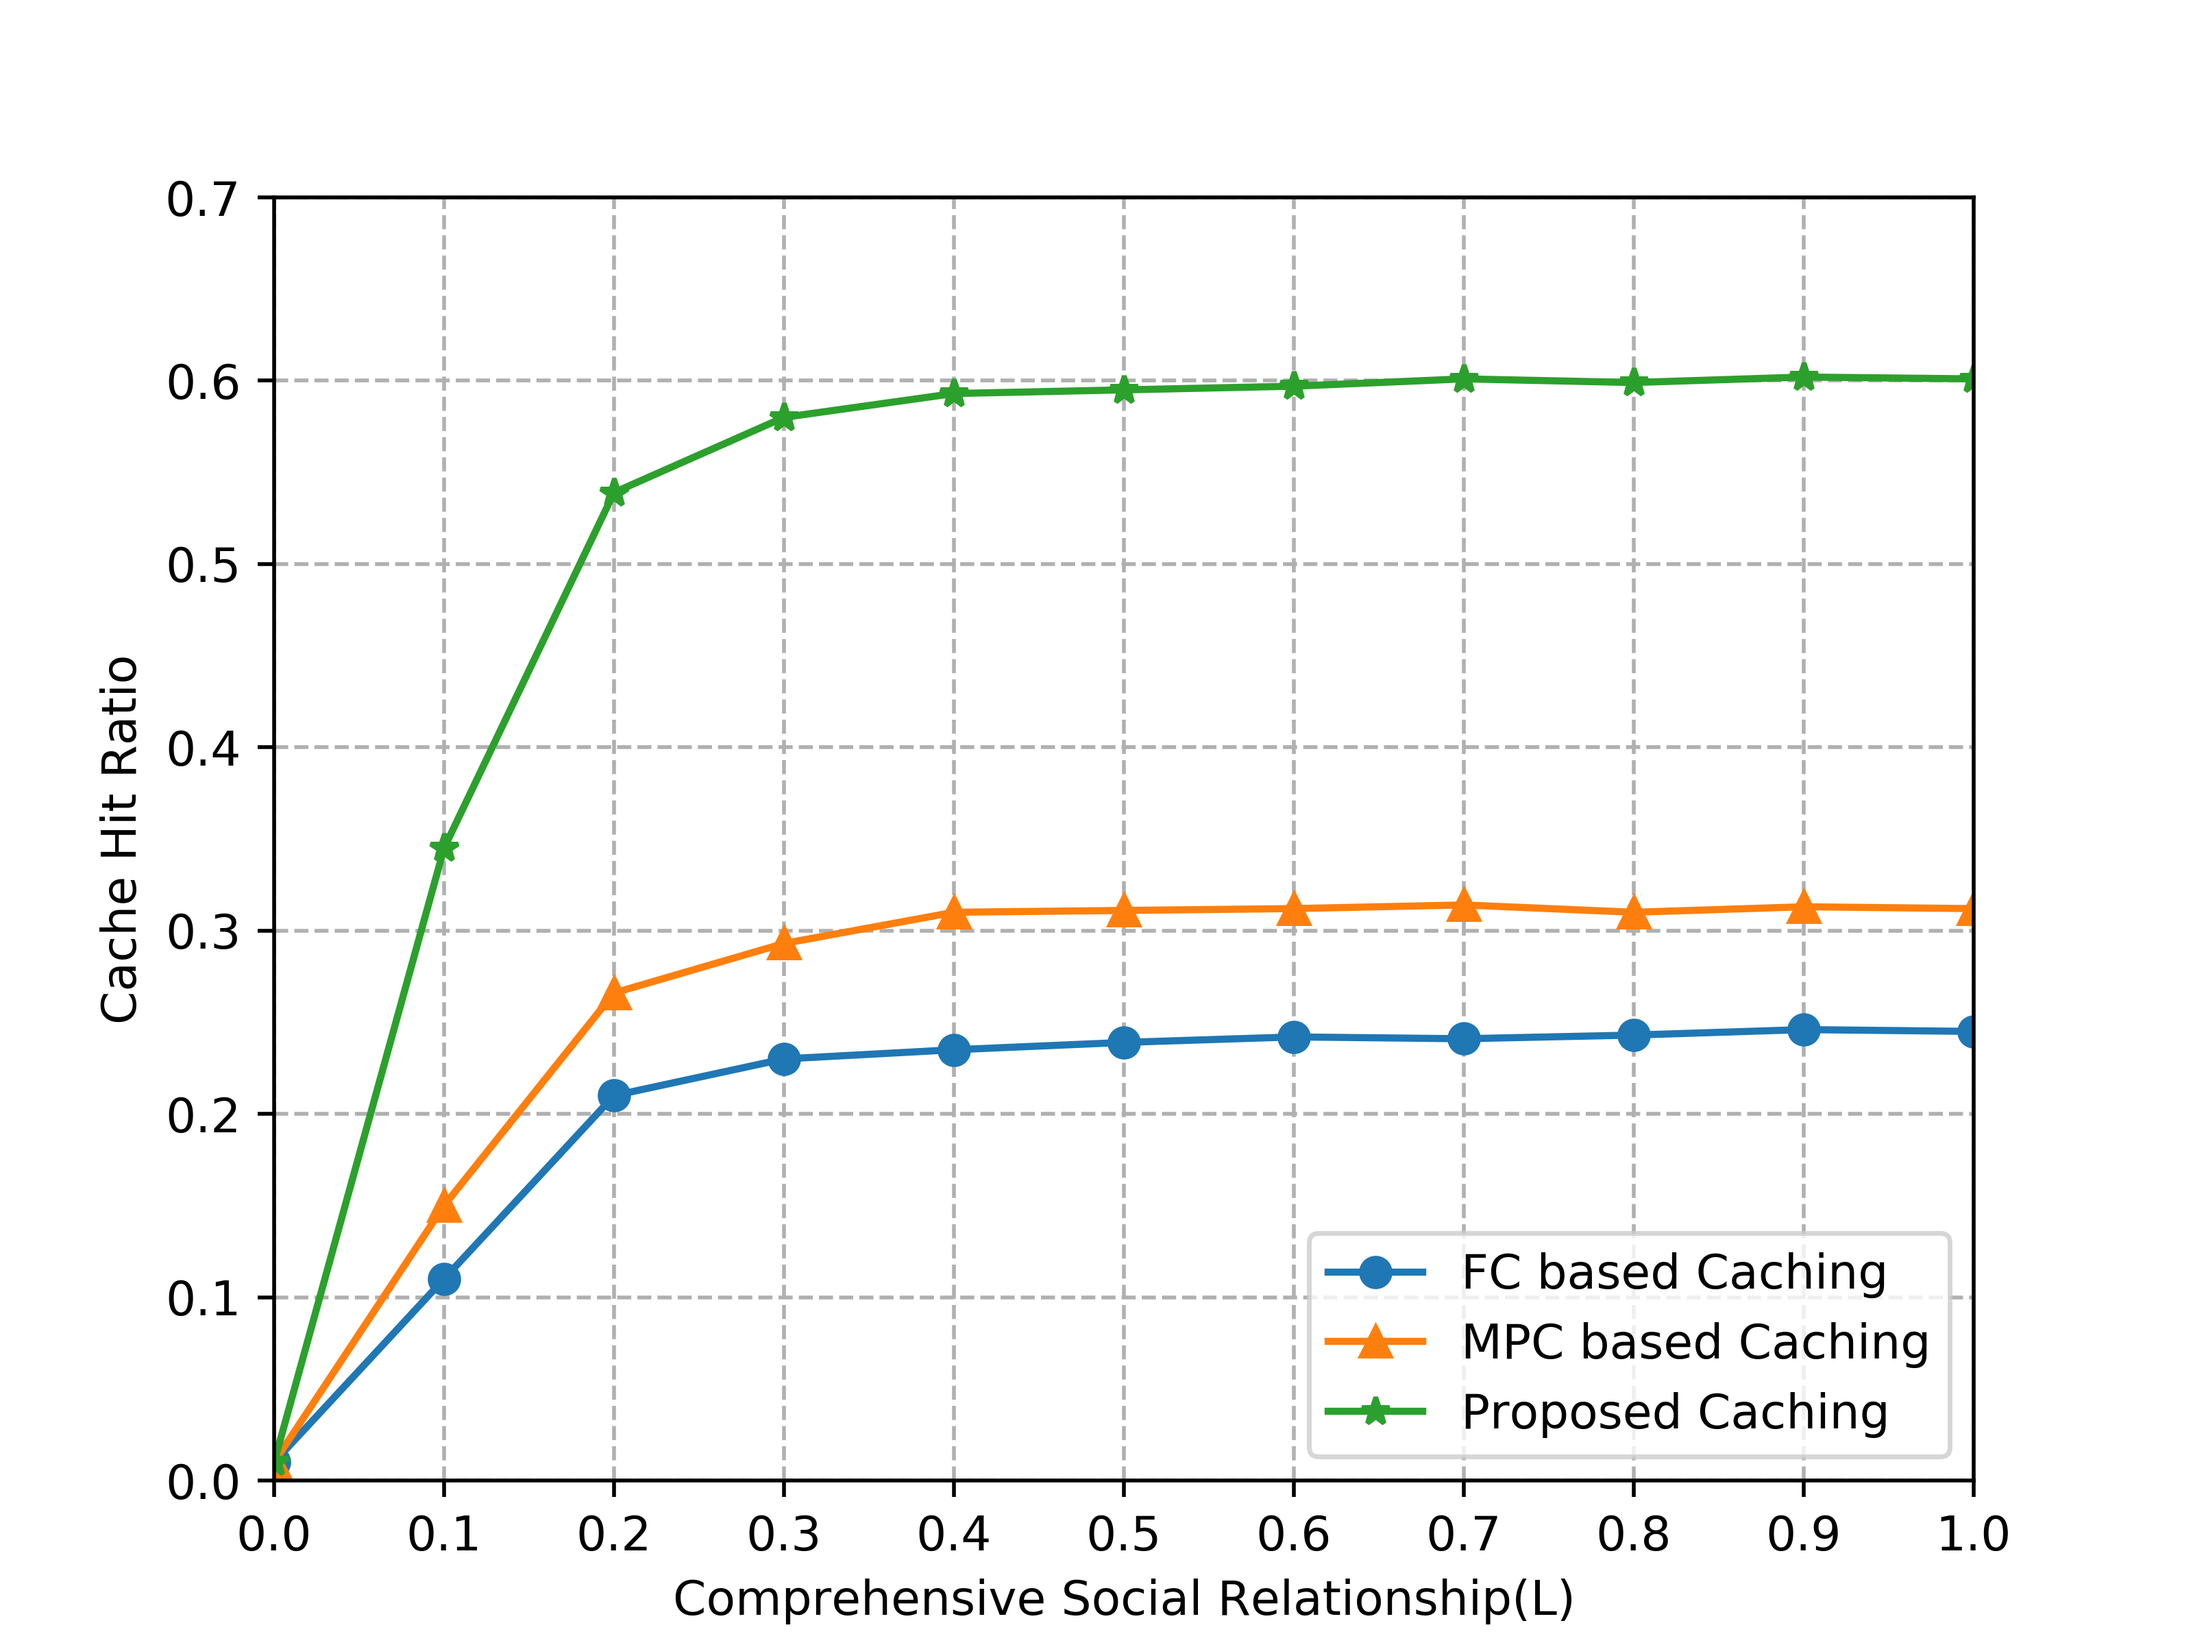
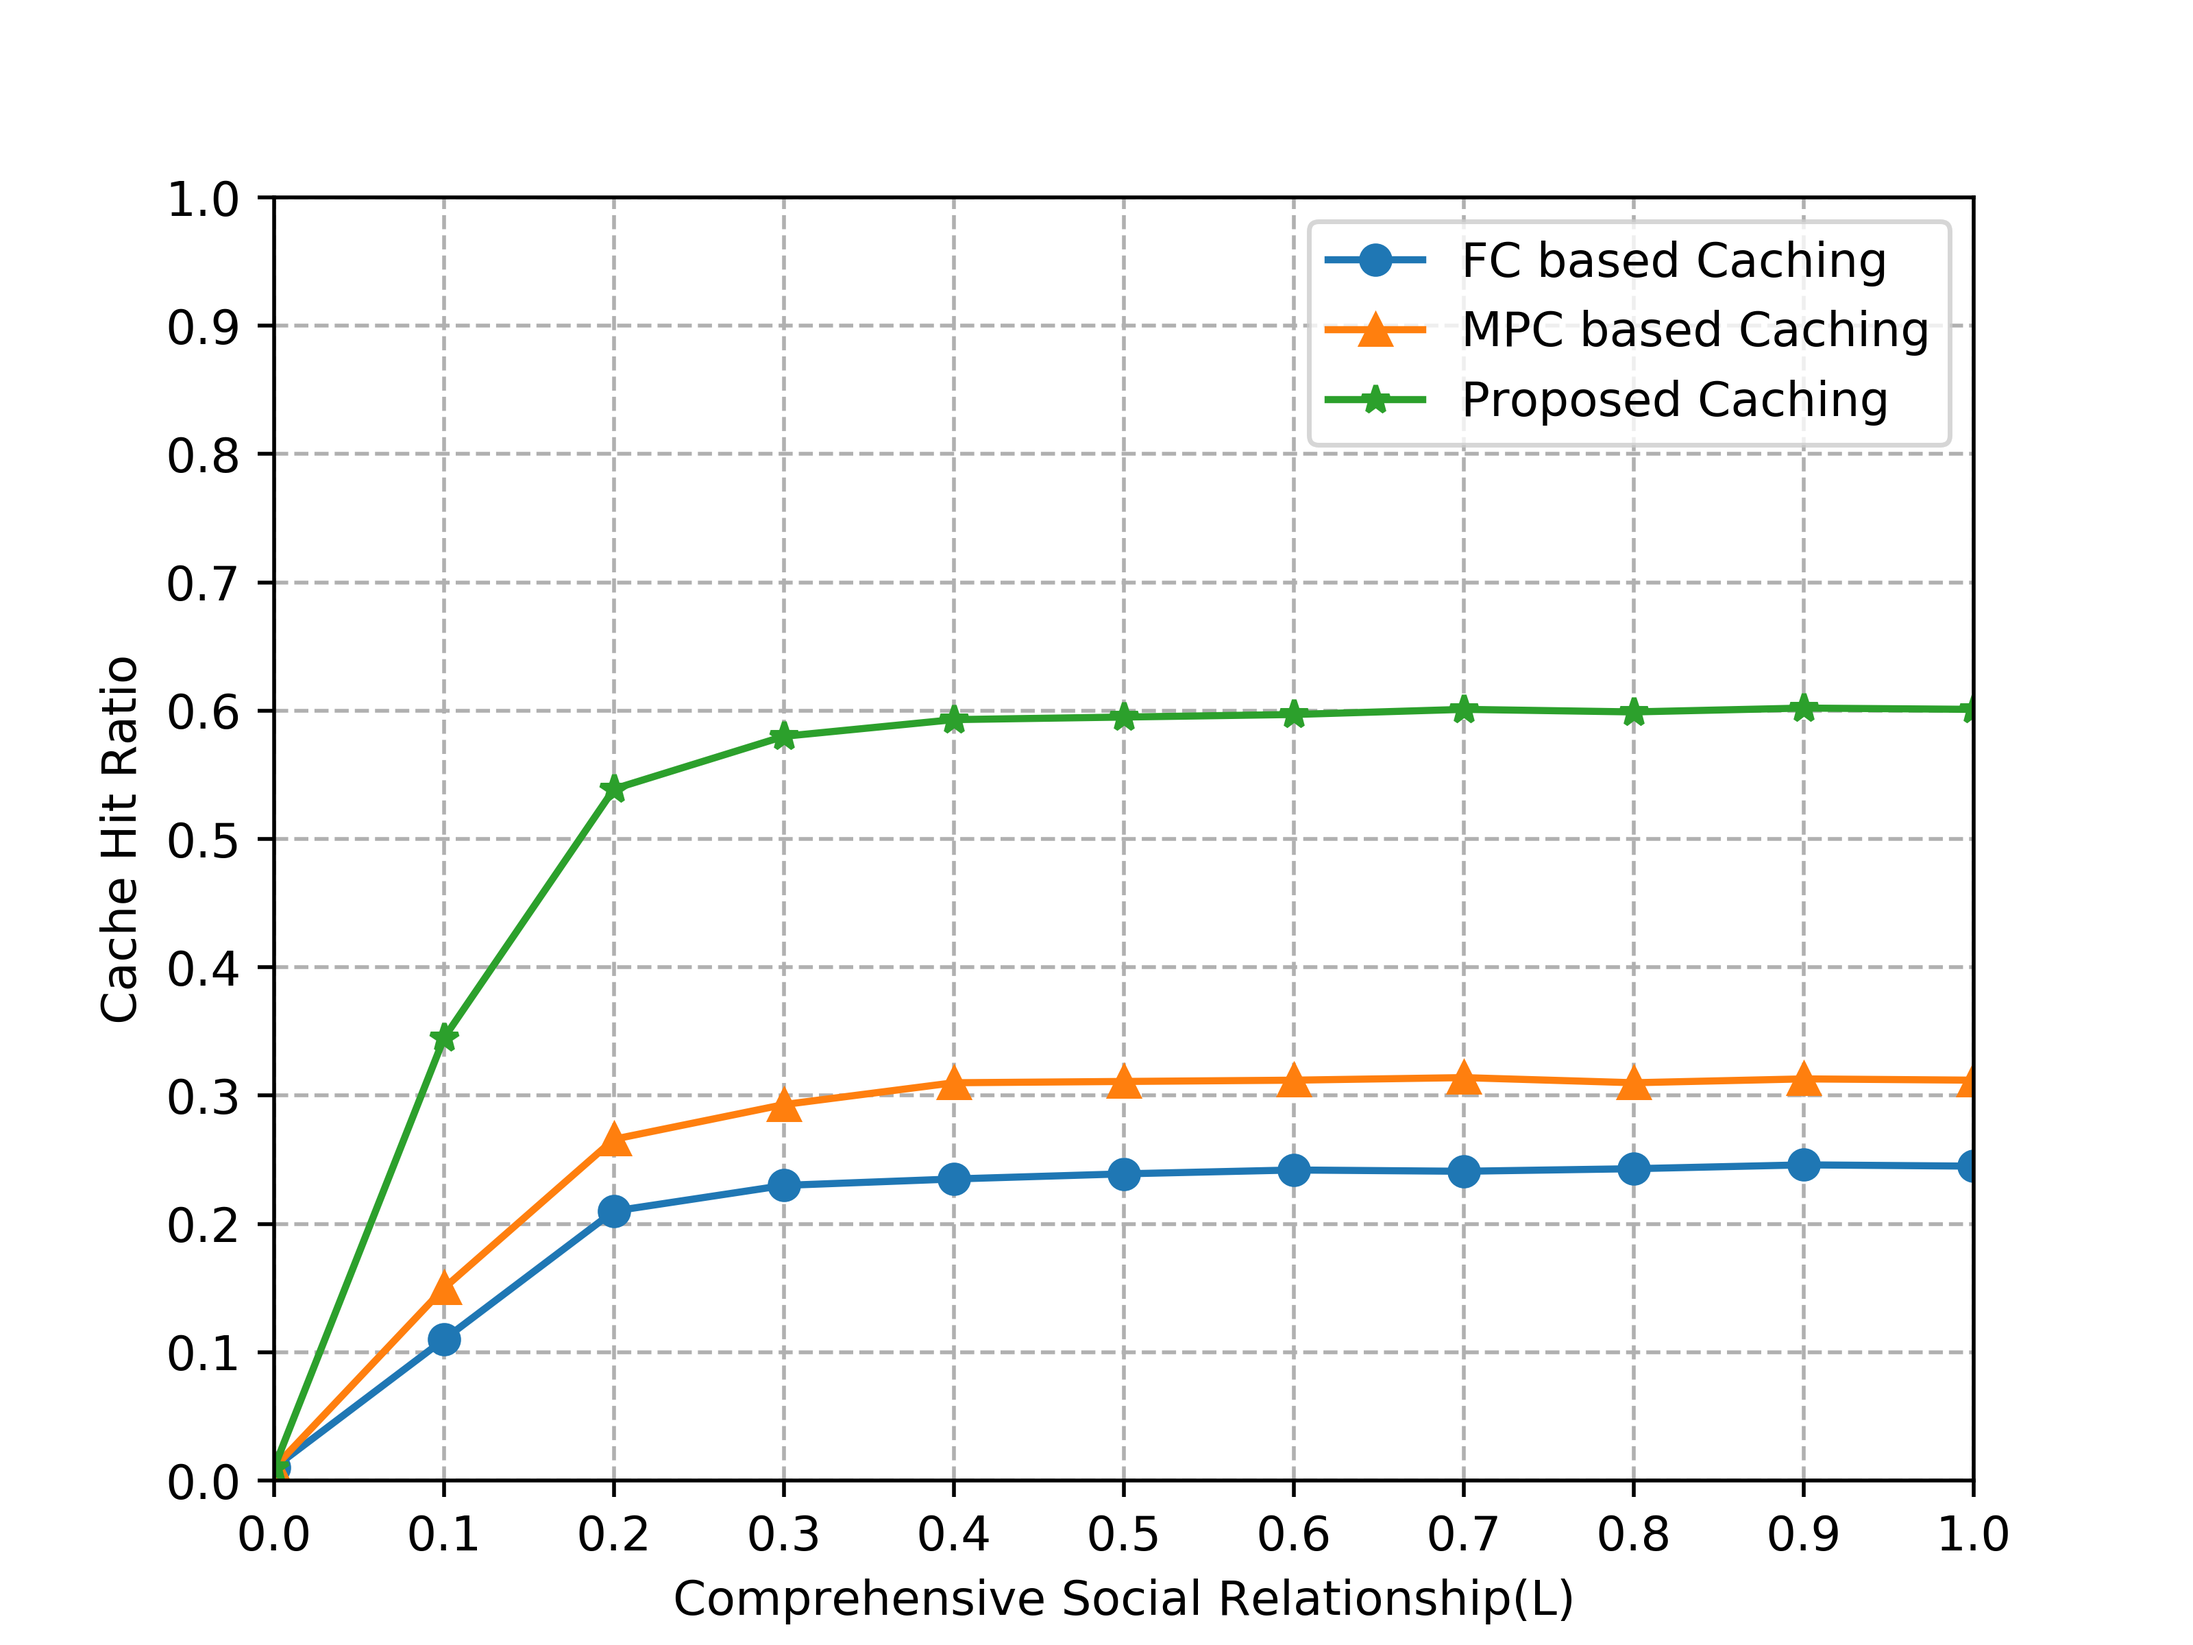
update figure

diff --git a/chart/content_number_impact.py b/chart/content_number_impact.py
@@ -3,7 +3,7 @@ import matplotlib.pyplot as plt
 
 if __name__ == '__main__':
 
-    num1 = [0.5717934257507328 + 0.05, 0.5390253238057011+ 0.05, 0.5156656224680396+ 0.05, 0.49781419500401597+ 0.05, 0.48396425694707573+ 0.05, 0.40392717683725654+0.07+ 0.05, 0.3468355057857786+0.11+ 0.05, 0.30330149028072323+0.14+ 0.05, 0.2695136668494234+0.15+ 0.05, 0.2417914031466218+0.16+ 0.05]
+    num1 = [0.6217934257507328, 0.5890253238057012, 0.5656656224680396, 0.547814195004016, 0.5339642569470757, 0.5239271768372565, 0.5068355057857786, 0.49330149028072323, 0.46951366684942336, 0.45179140314662175]
     num2 = [0.38548351905932654, 0.3702224661309259, 0.3721159283516613, 0.37345989647717726, 0.3732850909520906, 0.36396786365944445, 0.3458190934814942, 0.32718896653434304, 0.30335211049265587, 0.2819823106938403]
     num3 = [0.2856574603851426, 0.2856574603851453, 0.2856574603851378, 0.2856574603851409, 0.28565746038514284, 0.2760310400791698, 0.2581988269468939, 0.24008348538992424, 0.216565525969466, 0.19572471178280626]
     num = [num1,num2,num3]
@@ -21,7 +21,7 @@ if __name__ == '__main__':
     plt.subplots_adjust(bottom=0.10)
     plt.xlabel('Number of Content')  # X轴标签
     plt.ylabel("Cache Hit Ratio")  # Y轴标签
-    plt.yticks([0, 0.1, 0.2, 0.3, 0.4, 0.5, 0.6, 0.7])
+    plt.yticks([0, 0.1, 0.2, 0.3, 0.4, 0.5, 0.6, 0.7, 0.8, 0.9, 1.0])
     plt.xticks(x)
     #plt.title("A simple plot") #标题
     plt.legend()

diff --git a/ncf/Dataset.py b/ncf/Dataset.py
@@ -4,6 +4,24 @@ Processing datasets.
 
 @author: Xiangnan He (xiangnanhe@gmail.com)
 '''
+
+'''
+Dataset Description
+We provide two processed datasets: MovieLens 1 Million (ml-1m) and Pinterest (pinterest-20).
+
+1. train.rating:
+    Train file.
+    Each Line is a training instance: userID\t itemID\t rating\t timestamp (if have)
+
+2. test.rating:
+    Test file (positive instances).
+    Each Line is a testing instance: userID\t itemID\t rating\t timestamp (if have)
+
+3. test.negative
+    Test file (negative instances).
+    Each line corresponds to the line of test.rating, containing 99 negative samples.
+    Each line is in the format: (userID,itemID)\t negativeItemID1\t negativeItemID2 ...
+'''
 import scipy.sparse as sp
 import numpy as np
 

diff --git a/chart/social_relationship_impact.py b/chart/social_relationship_impact.py
@@ -24,7 +24,7 @@ if __name__ == '__main__':
     plt.subplots_adjust(bottom=0.10)
     plt.xlabel('Comprehensive Social Relationship(L)')  # X轴标签
     plt.ylabel("Cache Hit Ratio")  # Y轴标签
-    plt.yticks([0, 0.1, 0.2, 0.3, 0.4, 0.5, 0.6, 0.7])
+    plt.yticks([0, 0.1, 0.2, 0.3, 0.4, 0.5, 0.6, 0.7, 0.8, 0.9, 1.0])
     plt.xticks(x)
     #plt.title("A simple plot") #标题
     plt.legend()

diff --git a/chart/cache_capacity_impact.py b/chart/cache_capacity_impact.py
@@ -21,7 +21,7 @@ if __name__ == '__main__':
     plt.subplots_adjust(bottom=0.10)
     plt.xlabel('Cache Capacity of Mobile Device')  # X轴标签
     plt.ylabel("Cache Hit Ratio")  # Y轴标签
-    plt.yticks([0, 0.1, 0.2, 0.3, 0.4, 0.5, 0.6, 0.7])
+    plt.yticks([0, 0.1, 0.2, 0.3, 0.4, 0.5, 0.6, 0.7, 0.8, 0.9, 1.0])
     plt.xticks(x)
     #plt.title("A simple plot") #标题
     plt.legend()

diff --git a/chart/user_number_impact.py b/chart/user_number_impact.py
@@ -24,7 +24,7 @@ if __name__ == '__main__':
     plt.subplots_adjust(bottom=0.10)
     plt.xlabel('Number of User')  # X轴标签
     plt.ylabel("Cache Hit Ratio")  # Y轴标签
-    plt.yticks([0, 0.1, 0.2, 0.3, 0.4, 0.5, 0.6, 0.7])
+    plt.yticks([0, 0.1, 0.2, 0.3, 0.4, 0.5, 0.6, 0.7, 0.8, 0.9, 1.0])
     plt.xticks(x)
     #plt.title("A simple plot") #标题
     plt.legend()

diff --git a/chart/predict_comparison.py b/chart/predict_comparison.py
@@ -13,7 +13,7 @@ if __name__ == '__main__':
 
     x = [3,4,5,6,7,8,9]
     plt.grid(ls='--')
-    lable = ['Content-Aware based Cache', 'CF&LFM based Cache', 'Proposed Cache'] # 折现名称
+    lable = ['Content-Aware Model', 'CF&LFM Cache', 'NCF Model'] # 折现名称
     markes = ['->', '-^', '-o'] # 折现显示形状
     lable.reverse()
     print(num)
